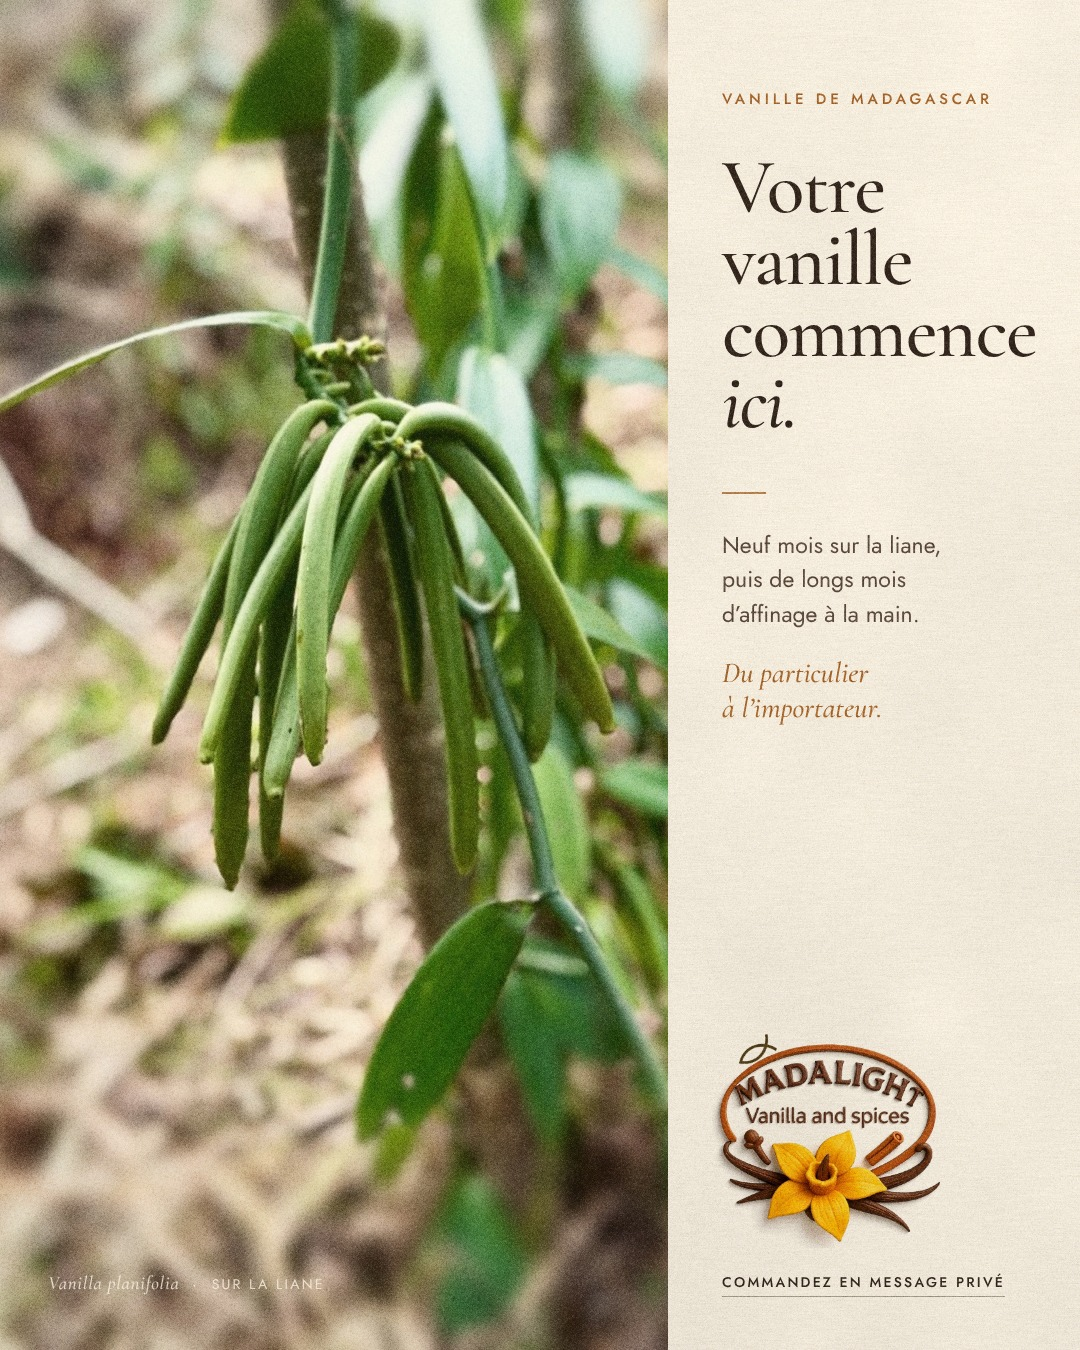
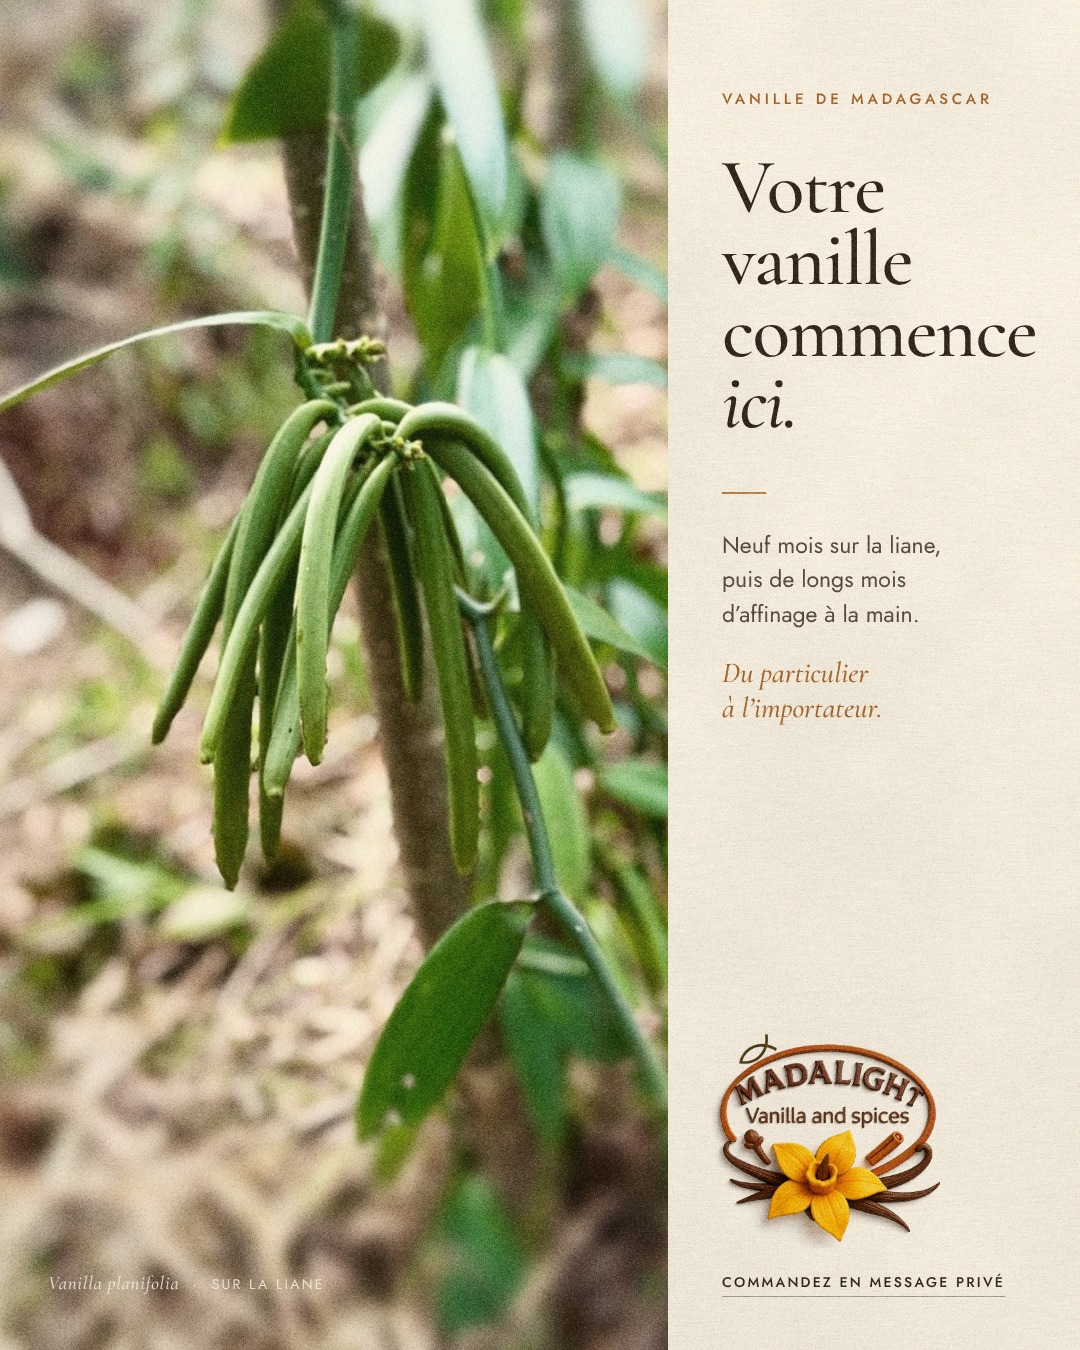
Ajoute une v2 plus riche de la publication Facebook
Colonne brun gousse affinée, photo plus dense, logo sur une étiquette en
papier à œillet et raphia posée à cheval sur la grille, et quatre étapes
numérotées de la liane à l'affinage. La v1 reste disponible.

Claude-Session: https://claude.ai/code/session_018MLAAGo24jjdivJBKngZGo

diff --git a/communication/facebook-liane/affiche-v2.html b/communication/facebook-liane/affiche-v2.html
@@ -1,0 +1,228 @@
+<!doctype html>
+<html lang="fr">
+<head>
+<meta charset="utf-8">
+<title>Madalight — Votre vanille commence ici (v2)</title>
+<style>
+  @font-face { font-family: "Cormorant"; font-weight: 500; src: url(assets/fonts/CormorantGaramond-500.ttf); }
+  @font-face { font-family: "Cormorant"; font-weight: 600; src: url(assets/fonts/CormorantGaramond-600.ttf); }
+  @font-face { font-family: "Cormorant"; font-weight: 500; font-style: italic; src: url(assets/fonts/CormorantGaramond-500-italic.ttf); }
+  @font-face { font-family: "Jost"; font-weight: 400; src: url(assets/fonts/Jost-400.ttf); }
+  @font-face { font-family: "Jost"; font-weight: 500; src: url(assets/fonts/Jost-500.ttf); }
+
+  /* Version 2 : plus de contraste et de profondeur.
+     Fond brun gousse affinée, texte crème, ocre du logo. Le vert reste dans la photo. */
+  :root {
+    --creme: #efe5d3;
+    --encre: #33261c;
+    --ocre: #c98d4e;
+    --filet: rgba(239, 229, 211, 0.16);
+  }
+
+  * { margin: 0; padding: 0; box-sizing: border-box; }
+  html, body { width: 1080px; height: 1350px; background: #2c1f17; }
+
+  .affiche {
+    position: relative;
+    width: 1080px;
+    height: 1350px;
+    overflow: hidden;
+    background: url(assets/papier-sombre.png);
+    color: var(--creme);
+    font-kerning: normal;
+    text-rendering: geometricPrecision;
+  }
+
+  /* Même grille que la v1 : photo sur 668 px (1080 / φ), gousses sur le tiers gauche. */
+  .photo {
+    position: absolute;
+    left: 0; top: 0;
+    width: 668px; height: 1350px;
+    background: url(assets/photo-riche.jpg) no-repeat;
+    background-size: auto 1350px;
+    background-position: -115px 0;
+  }
+  /* Le sol s'assombrit en bas pour asseoir l'étiquette. */
+  .photo::after {
+    content: "";
+    position: absolute; inset: 0;
+    background: linear-gradient(to bottom, rgba(30, 20, 14, 0) 58%, rgba(30, 20, 14, 0.5) 100%);
+  }
+
+  .legende {
+    position: absolute;
+    left: 34px; top: 66px;
+    writing-mode: vertical-rl;
+    transform: rotate(180deg);
+    font: 400 12px/1 "Jost", sans-serif;
+    letter-spacing: 0.24em;
+    text-transform: uppercase;
+    color: rgba(246, 239, 226, 0.78);
+    z-index: 1;
+  }
+
+  .colonne {
+    position: absolute;
+    left: 668px; top: 0;
+    width: 412px; height: 1350px;
+    padding: 92px 34px 0 54px;
+  }
+
+  .surtitre {
+    font: 500 15px/1 "Jost", sans-serif;
+    letter-spacing: 0.26em;
+    text-transform: uppercase;
+    color: var(--ocre);
+  }
+
+  h1 {
+    margin-top: 46px;
+    font: 500 78px/0.92 "Cormorant", serif;
+    letter-spacing: -0.018em;
+    color: var(--creme);
+  }
+  h1 em { font-style: italic; color: var(--ocre); }
+
+  /* Les étapes, comme sur une fiche de dégustation. */
+  .etapes {
+    margin-top: 54px;
+    list-style: none;
+    border-bottom: 1px solid var(--filet);
+  }
+  .etapes li {
+    display: grid;
+    grid-template-columns: 44px 1fr;
+    align-items: baseline;
+    padding: 14px 0 13px;
+    border-top: 1px solid var(--filet);
+  }
+  .etapes b {
+    font: 500 13px/1 "Jost", sans-serif;
+    letter-spacing: 0.12em;
+    color: var(--ocre);
+  }
+  .etapes span {
+    font: 500 27px/1.15 "Cormorant", serif;
+    color: rgba(239, 229, 211, 0.92);
+  }
+
+  .public {
+    margin-top: 36px;
+    font: 500 29px/1.2 "Cormorant", serif;
+    font-style: italic;
+    color: var(--ocre);
+  }
+
+  /* L'étiquette : posée à cheval sur la photo et la colonne, éclairée du haut à droite.
+     drop-shadow suit la découpe et le trou de l'œillet. */
+  .etiquette {
+    position: absolute;
+    left: 478px; top: 1004px;
+    width: 352px; height: 262px;
+    transform: rotate(-4deg);
+    transform-origin: 30% 50%;
+    filter:
+      drop-shadow(-2px 4px 3px rgba(14, 8, 4, 0.5))
+      drop-shadow(-12px 20px 24px rgba(14, 8, 4, 0.42));
+    z-index: 2;
+  }
+  .carte {
+    position: absolute; inset: 0;
+    background:
+      linear-gradient(200deg, rgba(255, 250, 240, 0.35), rgba(255, 250, 240, 0) 45%, rgba(60, 40, 20, 0.08)),
+      url(assets/papier.png) -300px -500px;
+    clip-path: polygon(46px 0, 100% 0, 100% 100%, 46px 100%, 0 calc(100% - 46px), 0 46px);
+    -webkit-mask: radial-gradient(circle 9px at 36px 50%, transparent 96%, #000 100%);
+            mask: radial-gradient(circle 9px at 36px 50%, transparent 96%, #000 100%);
+  }
+  /* Œillet en laiton patiné : reflet doux, pas de miroir. */
+  .oeillet {
+    position: absolute;
+    left: 20px; top: 115px;
+    width: 32px; height: 32px;
+    border-radius: 50%;
+    background:
+      radial-gradient(circle, transparent 9px, rgba(40, 28, 12, 0.55) 9.6px, transparent 11px),
+      conic-gradient(from 210deg, #6b5230, #a8874f, #d2b67f, #9a7a45, #5e4729, #846640, #6b5230);
+    -webkit-mask: radial-gradient(circle, transparent 9px, #000 9.5px, #000 15.4px, transparent 16px);
+            mask: radial-gradient(circle, transparent 9px, #000 9.5px, #000 15.4px, transparent 16px);
+  }
+  /* Raphia : un brin passe devant dans l'œillet, l'autre ressort derrière la carte. */
+  .raphia {
+    position: absolute; left: 0; top: 0;
+    width: 352px; height: 262px;
+    overflow: visible;
+    fill: none;
+    stroke-linecap: round;
+  }
+  .raphia .fond { stroke: #ad8e60; stroke-width: 4.2; }
+  .raphia .torsion { stroke: #6f5636; stroke-width: 4.2; stroke-dasharray: 1.4 3.4; opacity: 0.55; }
+  .raphia .reflet { stroke: #e6d3ab; stroke-width: 1.1; stroke-dasharray: 1.4 3.4; stroke-dashoffset: 2.2; opacity: 0.55; }
+  .carte img {
+    position: absolute;
+    left: 92px; top: 18px;
+    width: 196px;
+    mix-blend-mode: multiply;
+  }
+  .appel {
+    position: absolute;
+    left: 66px; right: 14px; bottom: 26px;
+    text-align: center;
+    font: 500 12px/1 "Jost", sans-serif;
+    letter-spacing: 0.15em;
+    text-transform: uppercase;
+    color: var(--encre);
+  }
+
+  .grain {
+    position: absolute; inset: 0;
+    background: url(assets/grain.png);
+    mix-blend-mode: soft-light;
+    opacity: 0.6;
+    pointer-events: none;
+    z-index: 3;
+  }
+</style>
+</head>
+<body>
+  <div class="affiche">
+    <div class="photo">
+      <p class="legende">Vanilla planifolia · sur la liane</p>
+    </div>
+
+    <div class="colonne">
+      <p class="surtitre">Vanille de Madagascar</p>
+      <h1>Votre<br>vanille<br>commence<br><em>ici.</em></h1>
+
+      <ol class="etapes">
+        <li><b>01</b><span>Pollinisée à la main</span></li>
+        <li><b>02</b><span>Neuf mois sur la liane</span></li>
+        <li><b>03</b><span>Préparée à Madagascar</span></li>
+        <li><b>04</b><span>Affinée de longs mois</span></li>
+      </ol>
+
+      <p class="public">Du particulier<br>à l’importateur.</p>
+    </div>
+
+    <div class="etiquette">
+      <svg class="raphia" viewBox="0 0 352 262" aria-hidden="true">
+        <g><path class="fond" d="M 36 131 C 18 150, 0 168, -34 196 S -150 320, -236 410"/>
+           <path class="torsion" d="M 36 131 C 18 150, 0 168, -34 196 S -150 320, -236 410"/>
+           <path class="reflet" d="M 36 131 C 18 150, 0 168, -34 196 S -150 320, -236 410"/></g>
+      </svg>
+      <div class="carte">
+        <img src="assets/logo.png" alt="Madalight — Vanilla and spices">
+        <p class="appel">Commandez en message privé</p>
+      </div>
+      <div class="oeillet"></div>
+      <svg class="raphia" viewBox="0 0 352 262" aria-hidden="true">
+        <g><path class="fond" d="M -270 352 C -170 300, -70 170, 34 132"/>
+           <path class="torsion" d="M -270 352 C -170 300, -70 170, 34 132"/>
+           <path class="reflet" d="M -270 352 C -170 300, -70 170, 34 132"/></g>
+      </svg>
+    </div>
+
+    <div class="grain"></div>
+  </div>
+</body>
+</html>

diff --git a/communication/facebook-liane/prepare.py b/communication/facebook-liane/prepare.py
@@ -6,7 +6,9 @@ Produit dans assets/ :
 - photo.jpg   photo de la liane étalonnée (tons chauds et terreux, noirs
               relevés, flou progressif autour des gousses, léger grain) ;
 - logo.png    logo détouré sur fond transparent, sans le filigrane ;
+- photo-riche.jpg  même photo, étalonnage plus dense pour la v2 ;
 - papier.png  texture de papier crème (fibres et grain) ;
+- papier-sombre.png  fond brun de la v2 ;
 - grain.png   grain neutre posé sur toute l'affiche, texte compris.
 """
 
@@ -31,7 +33,9 @@ def flou(img, rayon):
     ) / 255
 
 
-def photo():
+def photo(nom="photo.jpg", contraste=0.16, noir=0.04, saturation=0.86, vignette=0.22, eclat=0.0):
+    """Étalonne la photo. La version « riche » (v2) a des ombres plus denses,
+    un vignettage plus marqué et un léger éclaircissement des gousses."""
     img = np.asarray(Image.open(SOURCES / "photo-liane.jpg").convert("RGB"), dtype=np.float32) / 255
     h, w, _ = img.shape
 
@@ -46,12 +50,12 @@ def photo():
 
     # Étalonnage : verts ramenés vers la sauge, terre plus chaude, désaturation légère.
     lum = img @ np.array([0.299, 0.587, 0.114], dtype=np.float32)
-    img = lum[..., None] + (img - lum[..., None]) * 0.86
+    img = lum[..., None] + (img - lum[..., None]) * saturation
     img *= np.array([1.035, 1.0, 0.93], dtype=np.float32)
     # Courbe douce : ombres relevées (pas de noir pur), hautes lumières retenues.
     img = np.clip(img, 0, 1)
-    img = img + 0.16 * img * (1 - img) * (img - 0.4) * 4
-    img = 0.04 + img * (0.96 - 0.04)
+    img = img + contraste * img * (1 - img) * (img - 0.4) * 4
+    img = noir + img * (0.96 - noir)
     # Ombres teintées brun vanille, hautes lumières crème.
     lum = (img @ np.array([0.299, 0.587, 0.114], dtype=np.float32))[..., None]
     img = img + (1 - lum) * np.array([0.018, 0.008, -0.012], dtype=np.float32) * 1.4
@@ -62,14 +66,16 @@ def photo():
     img = img + (lumiere ** 1.6)[..., None] * np.array([0.07, 0.05, 0.02], dtype=np.float32)
     # Vignettage discret sur les bords gauche et bas.
     v = np.clip(np.sqrt(((xx - w * 0.55) / (w * 0.75)) ** 2 + ((yy - h * 0.42) / (h * 0.72)) ** 2) - 0.55, 0, 1)
-    img = img * (1 - 0.22 * v[..., None])
+    img = img * (1 - vignette * v[..., None])
+    # Éclat sur la grappe : l'œil va d'abord aux gousses.
+    img = img * (1 + eclat * (1 - t))
 
     # Grain argentique fin, plus visible dans les tons moyens.
     grain = rng.normal(0, 1, (h, w)).astype(np.float32)
     grain = (grain + flou(np.clip(grain * 0.25 + 0.5, 0, 1), 0.6) * 2 - 1) * 0.5
     img = img + grain[..., None] * 0.022 * (1 - np.abs(lum - 0.5) * 1.2)
 
-    Image.fromarray((np.clip(img, 0, 1) * 255).astype(np.uint8)).save(ASSETS / "photo.jpg", quality=94)
+    Image.fromarray((np.clip(img, 0, 1) * 255).astype(np.uint8)).save(ASSETS / nom, quality=94)
 
 
 def logo():
@@ -136,6 +142,23 @@ def papier():
     Image.fromarray((np.clip(img, 0, 1) * 255).astype(np.uint8)).save(ASSETS / "papier.png", optimize=True)
 
 
+def papier_sombre():
+    """Fond brun gousse affinée (v2) : fibres et nuances, éclairé en haut à droite."""
+    h, w = HAUTEUR, LARGEUR
+    base = np.array([44, 31, 23], dtype=np.float32) / 255
+    nuages = bruit_doux(h, w, 160) * 0.6 + bruit_doux(h, w, 50) * 0.4
+    fin = rng.normal(0, 1, (h, w)).astype(np.float32)
+    fibres = np.asarray(
+        Image.fromarray(rng.normal(0, 1, (h, w // 16)).astype(np.float32), "F").resize((w, h), Image.BICUBIC),
+        dtype=np.float32,
+    )
+    yy, xx = np.mgrid[0:h, 0:w].astype(np.float32)
+    lumiere = 1 - np.clip(np.sqrt(((xx - w) / (w * 0.9)) ** 2 + (yy / (h * 1.0)) ** 2), 0, 1)
+    v = nuages * 0.007 + fin * 0.008 + fibres * 0.005 + lumiere * 0.035
+    img = base[None, None, :] + v[..., None] * np.array([1.0, 0.85, 0.7], dtype=np.float32)
+    Image.fromarray((np.clip(img, 0, 1) * 255).astype(np.uint8)).save(ASSETS / "papier-sombre.png", optimize=True)
+
+
 def grain():
     h, w = HAUTEUR, LARGEUR
     g = rng.normal(0, 1, (h, w)).astype(np.float32) * 0.75 + bruit_doux(h, w, 2) * 0.25
@@ -146,7 +169,9 @@ def grain():
 if __name__ == "__main__":
     ASSETS.mkdir(exist_ok=True)
     photo()
+    photo("photo-riche.jpg", contraste=0.30, noir=0.022, saturation=0.92, vignette=0.42, eclat=0.06)
     logo()
     papier()
+    papier_sombre()
     grain()
     print("Images prêtes dans", ASSETS)

diff --git a/communication/facebook-liane/README.md b/communication/facebook-liane/README.md
@@ -1,12 +1,12 @@
 # Publication Facebook — « Votre vanille commence ici »
 
-![Aperçu](export/madalight-facebook-1080x1350.jpg)
+| v1 — claire, minimale | v2 — sombre, en profondeur |
+|---|---|
+| ![v1](export/madalight-facebook-1080x1350.jpg) | ![v2](export/madalight-facebook-v2-1080x1350.jpg) |
 
 Format 4:5 (1080 × 1350 px), celui qui occupe le plus de place dans le fil
-Facebook sur mobile.
-
-- `export/madalight-facebook-1080x1350.jpg` : fichier à publier.
-- `export/madalight-facebook-1080x1350.png` : version sans perte, pour l'archive.
+Facebook sur mobile. Chaque version existe en JPEG (à publier) et en PNG
+(sans perte, pour l'archive) dans `export/`.
 
 ## Texte de la publication
 
@@ -43,11 +43,23 @@ Facebook sur mobile.
 - **Logo** : détouré sur fond transparent, sans le filigrane « ✦ » du
   fichier d'origine.
 
+### Ce que la v2 ajoute
+
+- **Contraste** : colonne brun gousse affinée, texte crème, photo plus dense
+  (ombres profondes sans noir pur, gousses légèrement éclaircies).
+- **Profondeur** : le logo est imprimé sur une étiquette en papier à œillet de
+  laiton, nouée de raphia comme une botte de vanille. Elle est posée à cheval
+  sur la photo et la colonne, ce qui casse la grille et relie les deux moitiés.
+  Son ombre tombe en bas à gauche, à l'opposé de la lumière.
+- **Contenu** : quatre étapes numérotées, comme sur une fiche de dégustation
+  (pollinisation, maturation, préparation, affinage). Elles donnent du crédit
+  auprès des acheteurs professionnels.
+
 ## Régénérer
 
 ```bash
 python communication/facebook-liane/prepare.py   # photo, logo, textures
-node communication/facebook-liane/render.mjs     # exports PNG et JPEG (Playwright)
+node communication/facebook-liane/render.mjs     # exports PNG et JPEG des deux versions (Playwright)
 ```
 
-Le texte et la mise en page se modifient dans `affiche.html`.
+Le texte et la mise en page se modifient dans `affiche.html` (v1) et `affiche-v2.html` (v2).
